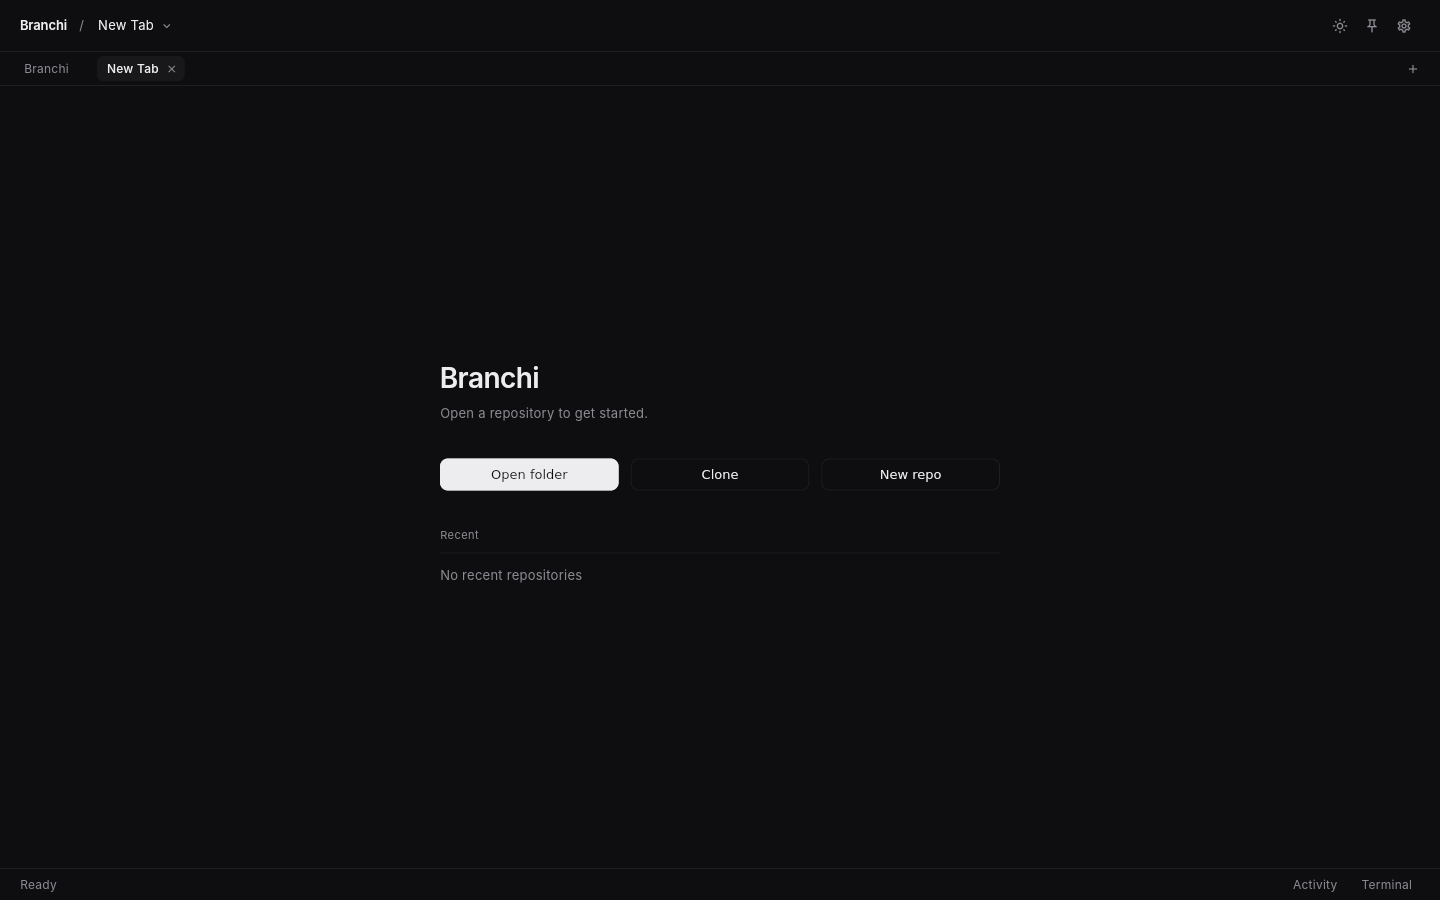
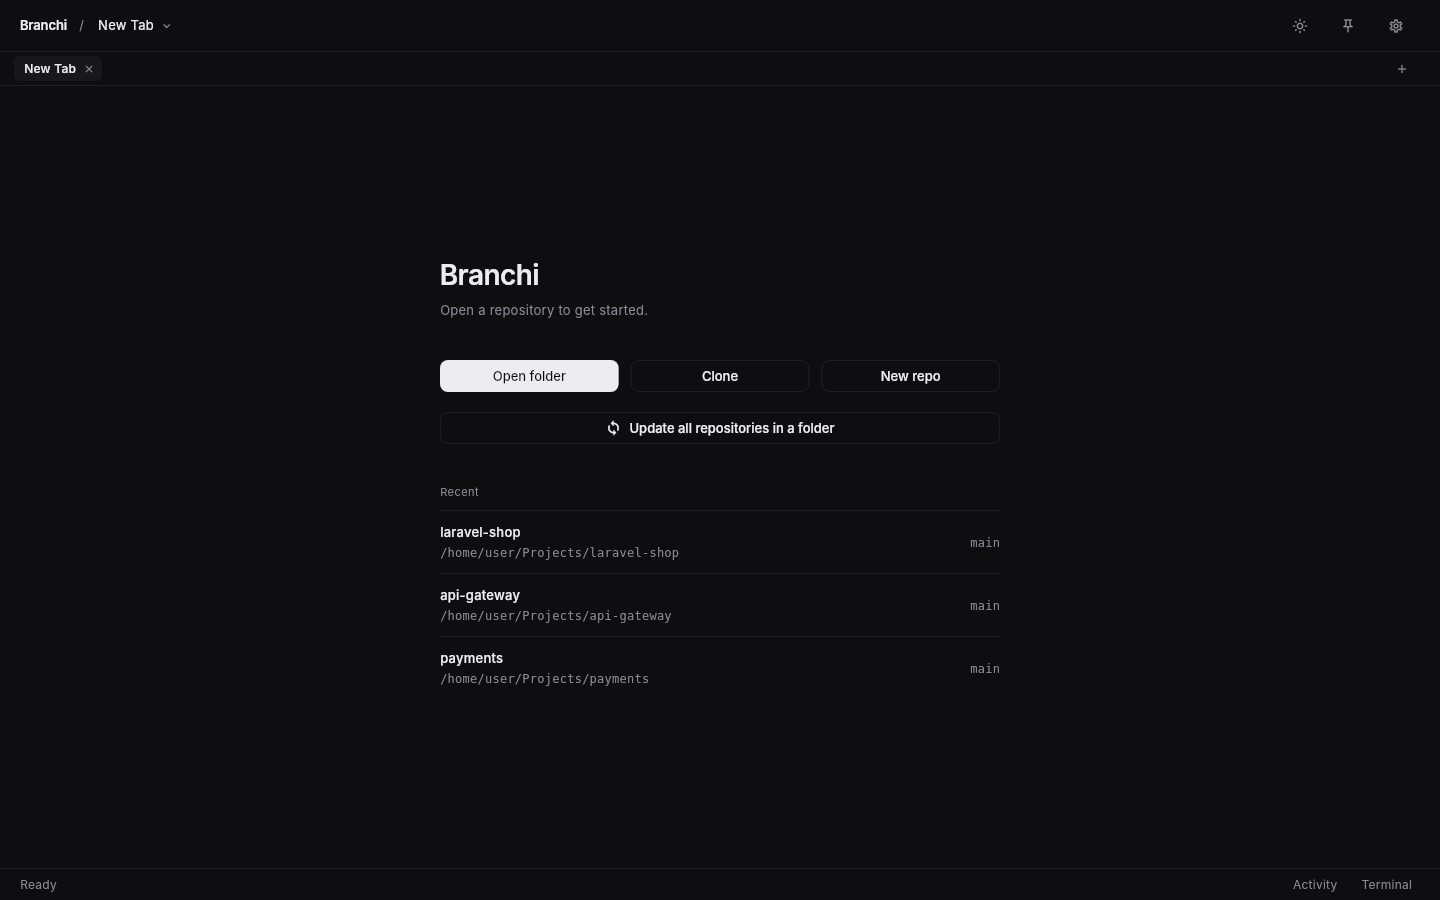
Rewrite README: intro, features, new screenshots, install
Adds why Branchi exists, a note on AI-era development, features at a
glance and in detail, a comparison with other git clients, and install
options right under the screenshots. New screenshots cover the folder
update tab, reports (repo, author, custom range, Persian/Jalali) and the
updated start page. Build instructions move under Building from source.

Claude-Session: https://claude.ai/code/session_01Faq4edRYT8ugdRJiTWqeqh

diff --git a/README.md b/README.md
@@ -1,14 +1,66 @@
-# Branchi
+# Branchi — a fast git client for Windows and Linux
 
-Branchi is a git client built the same way as [RustDesk](https://github.com/rustdesk/rustdesk):
-a **Rust** core with a **Flutter** UI on top.
+**Branchi** is a desktop git client for Windows and Linux with a **Rust** core
+and a **Flutter** UI. It covers the everyday work — history, staging,
+committing, branches, pull and push — and adds what most git GUIs leave out:
+**updating every repository in a folder at once**, **activity reports for a
+repository and for each author**, a **built-in terminal**, and full
+**Persian/Arabic (RTL) and Jalali calendar** support.
 
-- `core/` — Rust library (`branchi-core`) that will hold the git logic.
-- `flutter/` — Flutter application (the UI). Right now it just shows a
-  "Welcome to Branchi" screen; this is the starting point for the real client.
+If you are looking for a **git client for Windows**, a lighter
+**GitHub client for Windows**, or an alternative to Fork, Sourcetree,
+GitHub Desktop, GitKraken or TortoiseGit, give Branchi a try.
+
+<p align="center">
+  <img src="docs/screenshots/report.png" width="820" alt="Branchi git client for Windows: repository activity report" />
+</p>
+
+## Why Branchi
+
+- **Existing git clients fell short.** Many are heavy, slow to start, paid,
+  or missing everyday features.
+- **Many repositories, one place.** Real work is spread across many repos.
+  Branchi opens them side by side in tabs, updates a whole folder of them in
+  one click, and reports on each.
+- **Fast and native.** A Rust core (libgit2) does the git work; Flutter draws
+  the UI, natively on each platform.
+- **Persian and RTL first-class.** The whole UI works right-to-left in Persian
+  and Arabic, and dates can use the Jalali (Solar Hijri) calendar.
+
+### Built for how software is made now
+
+The whole development process is changing. With AI coding assistants, code
+gets written faster, more branches and commits pile up, and one person keeps
+more repositories moving at once. A git client has to change with it: it
+should keep many repositories up to date without busywork, and show clearly
+what changed, where and by whom, so people stay on top of the work.
+That is what Branchi is being built for.
+
+## Features at a glance
+
+- History with branches, commit search and file-by-file diffs
+- Stage, unstage, revert and commit — or commit and push in one step
+- Fetch, pull (fast-forward) and push, plus remote management
+- Auto-pull branch watcher that keeps the current branch up to date
+- Tabs for several repositories, restored on the next launch
+- Update all repositories in a folder at once, safely
+- Activity reports for the whole repository and for each author
+- Custom date ranges, Gregorian or Jalali calendar
+- Built-in file browser and code editor
+- Built-in terminal with multiple terminal tabs
+- Light and dark themes, accent colors, English, Persian and Arabic
+- No separate Git install needed for everyday work — the git engine is built in
 
 ## Screenshots
 
+<p>
+  <img src="docs/screenshots/folder-update.png" width="400" alt="Update all git repositories in a folder" />
+  <img src="docs/screenshots/report-author.png" width="400" alt="Git activity report for one author" />
+</p>
+<p>
+  <img src="docs/screenshots/report-date-range.png" width="400" alt="Report with a custom date range" />
+  <img src="docs/screenshots/report-persian.png" width="400" alt="Branchi in Persian with the Jalali calendar" />
+</p>
 <p>
   <img src="docs/screenshots/history.png" width="400" alt="Branchi history view (dark)" />
   <img src="docs/screenshots/history-light.png" width="400" alt="Branchi history view (light)" />
@@ -19,10 +71,93 @@ a **Rust** core with a **Flutter** UI on top.
 </p>
 <p>
   <img src="docs/screenshots/settings.png" width="400" alt="Branchi branch watcher settings" />
-  <img src="docs/screenshots/welcome.png" width="400" alt="Branchi welcome screen" />
+  <img src="docs/screenshots/welcome.png" width="400" alt="Branchi start page" />
 </p>
 
-## Prerequisites (Windows 11)
+## Install
+
+**Windows (Scoop):**
+```powershell
+scoop bucket add branchi https://github.com/mbpcoder/Branchi
+scoop install branchi
+```
+
+**Windows (installer):** download `branchi-setup.exe` from the
+[latest release](https://github.com/mbpcoder/Branchi/releases/latest).
+
+**Linux (Snap):**
+```bash
+sudo snap install branchi --classic
+```
+
+To build it yourself, see [Building from source](#building-from-source).
+
+## Features
+
+### History, changes and files
+Browse the commit history next to your local and remote branches, search
+commits, and open any commit to see its diff file by file. The **Changes**
+view stages, unstages and reverts files and commits, or commits and pushes
+in one step. The **Files** view is a file tree with a built-in code editor.
+
+### Pull, push and auto-pull
+Fetch, pull and push from the top bar. Pulls are fast-forward only, so your
+branch is never rewritten behind your back. The **branch watcher** can pull
+the current branch on a schedule, only when the working tree is clean, and
+notify you when new commits arrive.
+
+### Tabs for many repositories
+Open each repository in its own tab. Tabs, and their terminals, come back
+the next time you start Branchi. Middle-click a tab to close it.
+
+### Update all repositories in a folder
+Pick a folder and Branchi opens it as a tab listing every git repository
+inside it. **Update all** fast-forwards each repository's current branch, a
+few at a time. Repositories with uncommitted changes, a diverged branch, no
+upstream or a detached HEAD are skipped and never touched, and each row says
+why. Click **Open** to jump into any of them.
+
+### Reports
+The **Report** section shows a repository's activity for any period: commits
+compared with the previous period, contributors, lines changed, active days,
+commits per day/week/month, top contributors, most changed files, a
+weekday × hour heatmap, and branches compared with `main` (ahead/behind,
+merged, stale). Click a contributor to see their own report: share of
+commits, files only they changed, typical commit size, the areas of the code
+they work in, recent commits, when they commit and their branches. Pick a
+preset (7 days, 30 days, 90 days, a year, all history) or any custom date
+range. Anyone with access to the repository can see its reports.
+
+### Built-in terminal
+Each repository tab has its own terminal panel with multiple terminal tabs,
+opened in the repository folder. Choose which shell to use in Settings.
+
+### Languages, RTL and calendars
+English, Persian and Arabic, with a full right-to-left layout. Dates follow
+the **Calendar** setting: automatic (Jalali for Persian), Gregorian or Jalali.
+
+## Branchi and other git clients
+
+Branchi is a desktop git GUI like Fork, Sourcetree, GitHub Desktop,
+GitKraken and TortoiseGit. What it focuses on:
+
+- **Many repositories:** update a whole folder of repos in one click.
+- **Insight:** built-in activity reports per repository and per author.
+- **Built-in git engine:** everyday git work runs through libgit2 inside the
+  app, without shelling out to a `git` command.
+- **RTL and Jalali:** made to work well in Persian and Arabic.
+- **Any git host:** works with GitHub, GitLab, Bitbucket, Gitea or your own
+  server — it's plain git.
+
+## Building from source
+
+Branchi is built the same way as [RustDesk](https://github.com/rustdesk/rustdesk):
+a Rust core with a Flutter UI on top.
+
+- `core/` — Rust library (`branchi-core`) with the git logic.
+- `flutter/` — Flutter application (the UI).
+
+### Prerequisites (Windows 11)
 
 1. **Rust** — install via [rustup](https://rustup.rs):
    ```powershell
@@ -48,7 +183,7 @@ a **Rust** core with a **Flutter** UI on top.
    flutter config --enable-windows-desktop
    ```
 
-## First-time setup
+### First-time setup
 
 The `flutter/` folder contains the Dart source (`pubspec.yaml`, `lib/main.dart`)
 but not the generated native platform folders (they aren't checked into the
@@ -72,7 +207,7 @@ flutter pub run flutter_launcher_icons
 This writes `windows/runner/resources/app_icon.ico` and updates
 `windows/runner/Runner.rc` to use it.
 
-## Running the app
+### Running the app
 
 ```powershell
 cd flutter
@@ -80,9 +215,9 @@ flutter pub get
 flutter run -d windows
 ```
 
-This opens a desktop window that says **"Welcome to Branchi"**.
+This opens the Branchi window on the start page.
 
-## Running the built app (after `flutter build`)
+### Running the built app (after `flutter build`)
 
 `flutter run` compiles and launches the app in one step. To instead build a
 release binary and run it separately:
@@ -108,7 +243,7 @@ or double-click it in File Explorer. The `Release` folder also contains the
 `.dll` files the app needs, so keep `branchi.exe` in that folder (or copy the
 whole folder) rather than moving the `.exe` alone.
 
-## Building the Rust core
+### Building the Rust core
 
 The Rust core builds independently of the UI:
 
@@ -122,7 +257,7 @@ Run its tests with:
 cargo test
 ```
 
-## Local database
+### Local database
 
 Branchi stores its local state (known repos, app settings) in **SQLite**,
 accessed through [`sqlx`](https://github.com/launchbadge/sqlx) — the same
@@ -139,7 +274,7 @@ No `DATABASE_URL` or `sqlx-cli` setup is required to build: the code uses
 runtime `sqlx::query(...)` calls rather than the compile-time-checked
 `sqlx::query!` macro, so `cargo build`/`cargo test` work offline.
 
-## Project layout
+### Project layout
 
 ```
 branchi/
@@ -147,32 +282,10 @@ branchi/
 ├── core/                # Rust core library (branchi-core)
 │   ├── migrations/      # sqlx SQL migrations
 │   └── src/
-│       ├── lib.rs
+│       ├── git.rs       # git operations (libgit2 via git2)
+│       ├── ffi.rs       # C ABI the Flutter app calls through dart:ffi
 │       └── db.rs        # SQLite storage layer (sqlx)
 └── flutter/             # Flutter UI application
     ├── pubspec.yaml
-    └── lib/main.dart
-```
-
-## Roadmap
-
-Once the core and UI are wired together (e.g. via
-[`flutter_rust_bridge`](https://github.com/fzyzcjy/flutter_rust_bridge), the
-same way RustDesk bridges its Rust core into Flutter), `core/` will grow to
-implement the actual git client logic, and the UI in `flutter/` will call
-into it.
-
-## Install
-
-**Windows (Scoop):**
-```powershell
-scoop bucket add branchi https://github.com/mbpcoder/Branchi
-scoop install branchi
-```
-
-**Windows (installer):** download `branchi-setup.exe` from the latest release.
-
-**Linux (Snap):**
-```bash
-sudo snap install branchi --classic
+    └── lib/             # screens, report, terminal, settings, …
 ```
